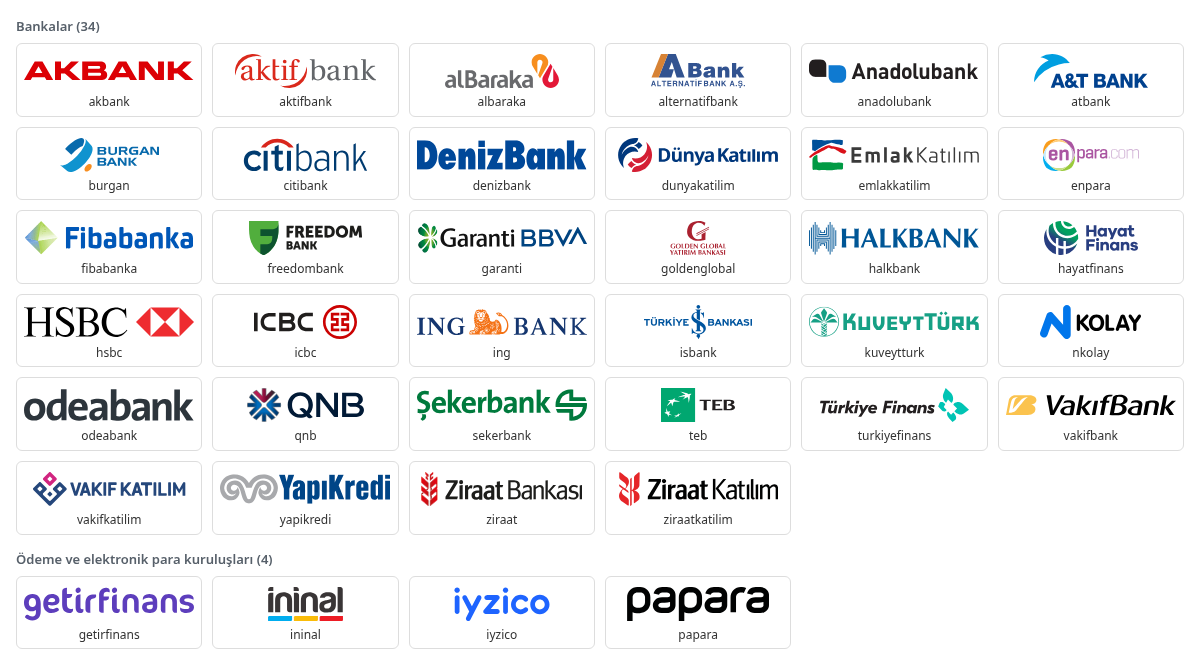
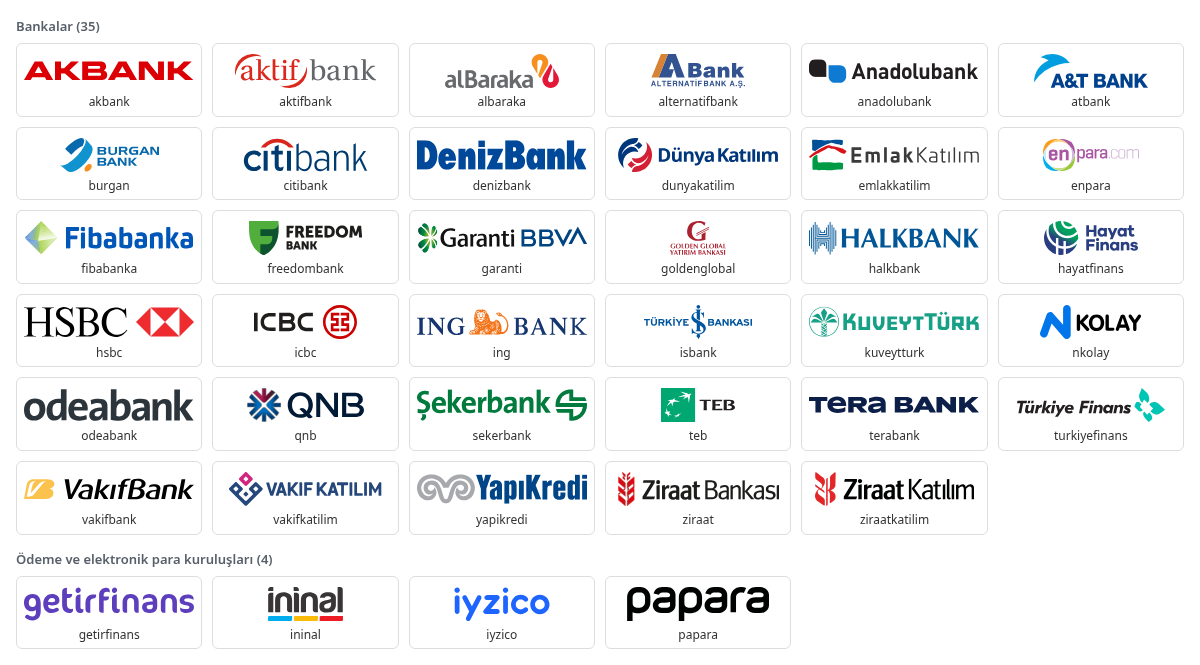
Tera Bank eklendi (35 banka + 4 odeme kurulusu)
- svg/terabank.svg: kurumun sitesindeki logo (terabank.com.tr)
- index.js: terabank ve terayatirim anahtarlari; test 58

Changed region(s): [[0.0, 0.6917, 0.6475, 0.812], [0.6783, 0.5714, 0.9867, 0.6617], [0.6783, 0.6917, 0.8325, 0.812]]

diff --git a/bank-logos.css b/bank-logos.css
@@ -34,6 +34,7 @@
 .bank-logo--qnb{aspect-ratio:1550/452;background-image:url("svg/qnb.svg")}
 .bank-logo--sekerbank{aspect-ratio:189.767/35.142;background-image:url("svg/sekerbank.svg")}
 .bank-logo--teb{aspect-ratio:180.03/82.94;background-image:url("svg/teb.svg")}
+.bank-logo--terabank{aspect-ratio:238/24;background-image:url("svg/terabank.svg")}
 .bank-logo--turkiyefinans{aspect-ratio:945.95/216.45;background-image:url("svg/turkiyefinans.svg")}
 .bank-logo--vakifbank{aspect-ratio:149.419/18.054;background-image:url("svg/vakifbank.svg")}
 .bank-logo--vakifkatilim{aspect-ratio:216/48;background-image:url("svg/vakifkatilim.svg")}

diff --git a/examples/index.html b/examples/index.html
@@ -23,7 +23,7 @@
 </head>
 <body>
 <h1>Türkiye banka ve ödeme kuruluşu logoları — örnekler</h1>
-<p>34 banka ve 4 ödeme / elektronik para kuruluşunun orijinal SVG logoları, üç kullanım biçimiyle. Kaynaklar, lisanslar ve marka uyarısı:
+<p>35 banka ve 4 ödeme / elektronik para kuruluşunun orijinal SVG logoları, üç kullanım biçimiyle. Kaynaklar, lisanslar ve marka uyarısı:
 <a href="https://github.com/murattahtaci/turkish-bank-logos-svg">github.com/murattahtaci/turkish-bank-logos-svg</a></p>
 
 <h2>1. <code>&lt;img&gt;</code></h2>

diff --git a/logos.js b/logos.js
@@ -321,6 +321,16 @@ export default [
     "license": "trademark"
   },
   {
+    "slug": "terabank",
+    "name": "Tera Bank (Tera Yatırım Bankası)",
+    "type": "bank",
+    "file": "svg/terabank.svg",
+    "width": 238,
+    "height": 24,
+    "source": "kurumun web sitesi",
+    "license": "trademark"
+  },
+  {
     "slug": "turkiyefinans",
     "name": "Türkiye Finans Katılım",
     "type": "bank",

diff --git a/index.js b/index.js
@@ -26,6 +26,8 @@ export const MATCH = [
   ['hayatfinans', 'hayatfinans'],
   ['dunyakatilim', 'dunyakatilim'],
   ['goldenglobal', 'goldenglobal'],
+  ['terabank', 'terabank'],
+  ['terayatirim', 'terabank'],
   // mevduat bankaları ve e-para kuruluşları
   ['ziraatbankasi', 'ziraat'],
   ['tcziraat', 'ziraat'],

diff --git a/README.md b/README.md
@@ -2,7 +2,7 @@
 
 **Turkish bank & payment institution logos in SVG** · [English below](#english)
 
-Türkiye'deki 34 banka ve 4 ödeme / elektronik para kuruluşunun **orijinal**
+Türkiye'deki 35 banka ve 4 ödeme / elektronik para kuruluşunun **orijinal**
 logoları, SVG biçiminde. Hiçbiri elle çizilmedi: her dosya aşağıda yazan
 kaynaktan alındı, render edilip gözle doğrulandı ve web'de doğrudan
 kullanılacak şekilde normalleştirildi. (Tek istisna Freedom Bank: raster bir
@@ -11,7 +11,7 @@ logodan otomatik vektörleştirildi — bkz. not.)
 Logolar [Domainhizmetleri](https://www.domainhizmetleri.com)'nin kartla ödeme
 ekranında, kartın hangi bankaya ait olduğunu göstermek için toplandı.
 
-![Önizleme — 38 logo](preview.png)
+![Önizleme — 39 logo](preview.png)
 
 ## Kullanım
 
@@ -66,7 +66,7 @@ findBankSlug('TOSLA');                     // null
 
 Eşleştirici katılım bankalarını ana bankadan (Ziraat Katılım / Ziraat, Vakıf
 Katılım / VakıfBank) ve başka adların içinde geçen kısa adları (`teb`, `abank`)
-ayırır. Sınama 50 durumla yapılıyor: 46 gerçek ad biçimi ve eşleşmemesi gereken
+ayırır. Sınama 52 durumla yapılıyor: 48 gerçek ad biçimi ve eşleşmemesi gereken
 4 durum ([`test/`](test/index.test.mjs)).
 
 npm ile: `npm install github:murattahtaci/turkish-bank-logos-svg`
@@ -87,7 +87,7 @@ kaynak ve lisans makine tarafından okunabilir biçimde [`logos.json`](logos.jso
 
 ## Dosyalar ve kaynaklar
 
-### Bankalar (34)
+### Bankalar (35)
 
 | Dosya | Kurum | Kaynak | Lisans |
 |---|---|---|---|
@@ -119,6 +119,7 @@ kaynak ve lisans makine tarafından okunabilir biçimde [`logos.json`](logos.jso
 | `qnb.svg` | QNB | Wikimedia Commons · *QNB Logo.svg* | Kamu malı |
 | `sekerbank.svg` | Şekerbank | Wikimedia Commons · *Şekerbank logo.svg* | Kamu malı |
 | `teb.svg` | TEB | seeklogo (EPS → SVG) | Kurumun marka varlığı |
+| `terabank.svg` | Tera Bank (Tera Yatırım Bankası) | kurumun web sitesi | Kurumun marka varlığı |
 | `turkiyefinans.svg` | Türkiye Finans Katılım | kurumun basın odası (AI) | Kurumun marka varlığı |
 | `vakifbank.svg` | VakıfBank | Wikimedia Commons · *Vakıfbank logo.svg* | Kamu malı |
 | `vakifkatilim.svg` | Vakıf Katılım | Wikimedia Commons · *Vakıf Katılım Logo.svg* | Kamu malı |
@@ -182,7 +183,7 @@ Depo ayrıca bir lisans vermez; her dosyanın lisansı yukarıdaki tabloda yazı
 
 ## English
 
-Original SVG logos of **34 banks and 4 payment / e-money institutions in Turkey**, collected
+Original SVG logos of **35 banks and 4 payment / e-money institutions in Turkey**, collected
 for the card payment screen of [Domainhizmetleri](https://www.domainhizmetleri.com)
 to show which bank a card belongs to.
 
@@ -202,7 +203,7 @@ to show which bank a card belongs to.
 - **Live examples:** [murattahtaci.github.io/turkish-bank-logos-svg/examples](https://murattahtaci.github.io/turkish-bank-logos-svg/examples/)
 - **Machine-readable list:** [`logos.json`](logos.json)
 - **Licenses per file:** 20 public domain (Wikimedia Commons), 1 CC BY-SA 4.0
-  (A&T Bank — attribute and share alike), 17 trademark assets of the institution.
+  (A&T Bank — attribute and share alike), 18 trademark assets of the institution.
 - **Missing:** Tosla — pull requests welcome.
 
 **Trademark notice:** these logos are registered trademarks of their owners.
